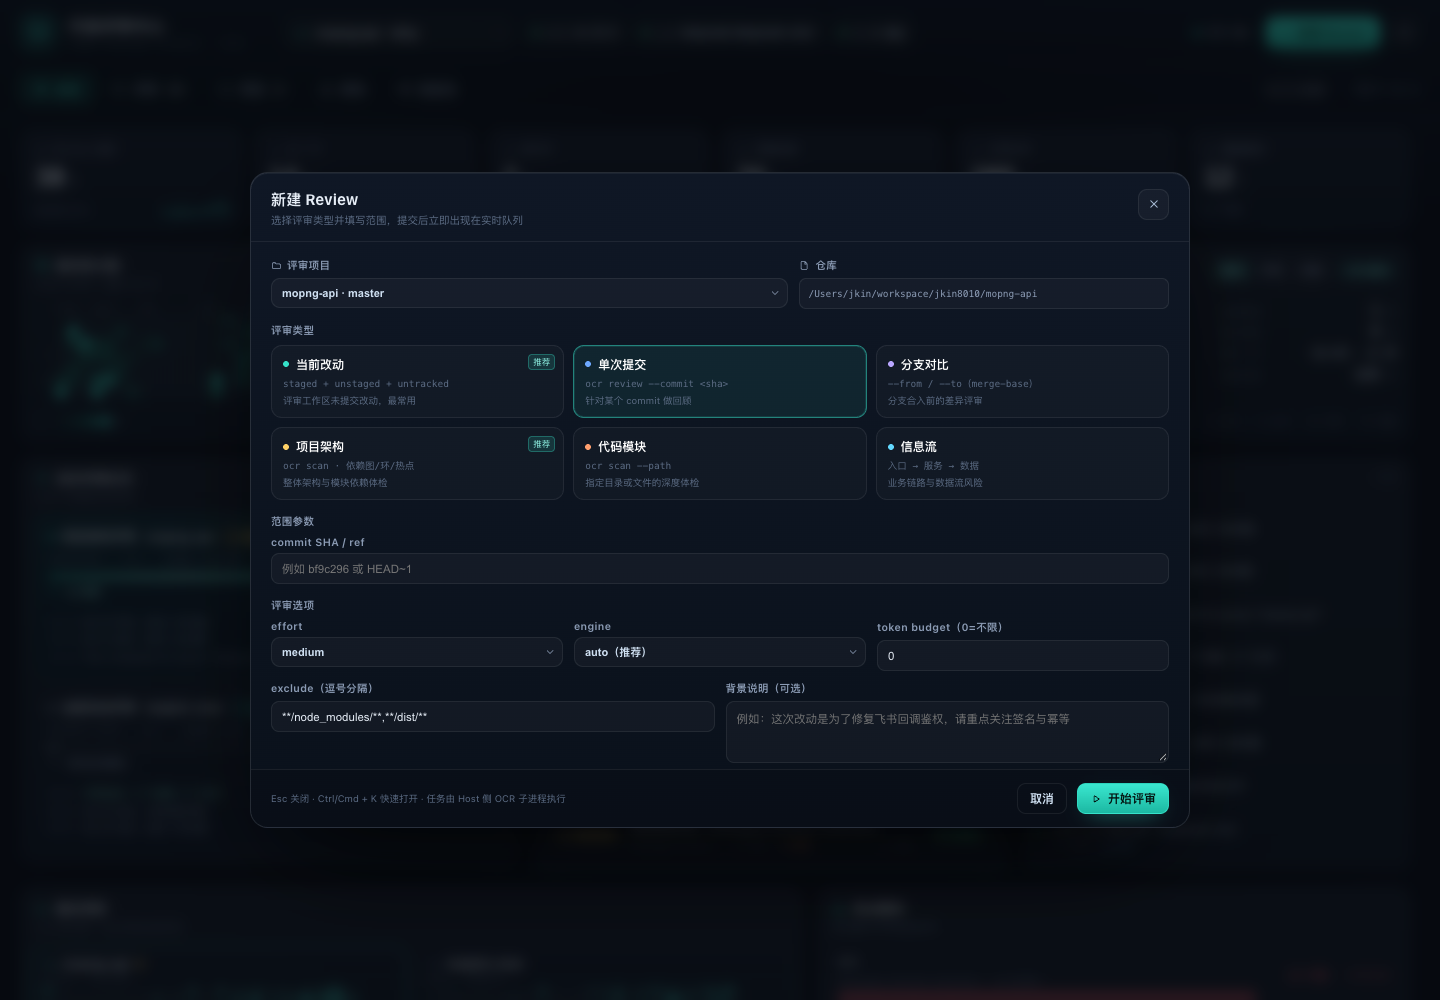
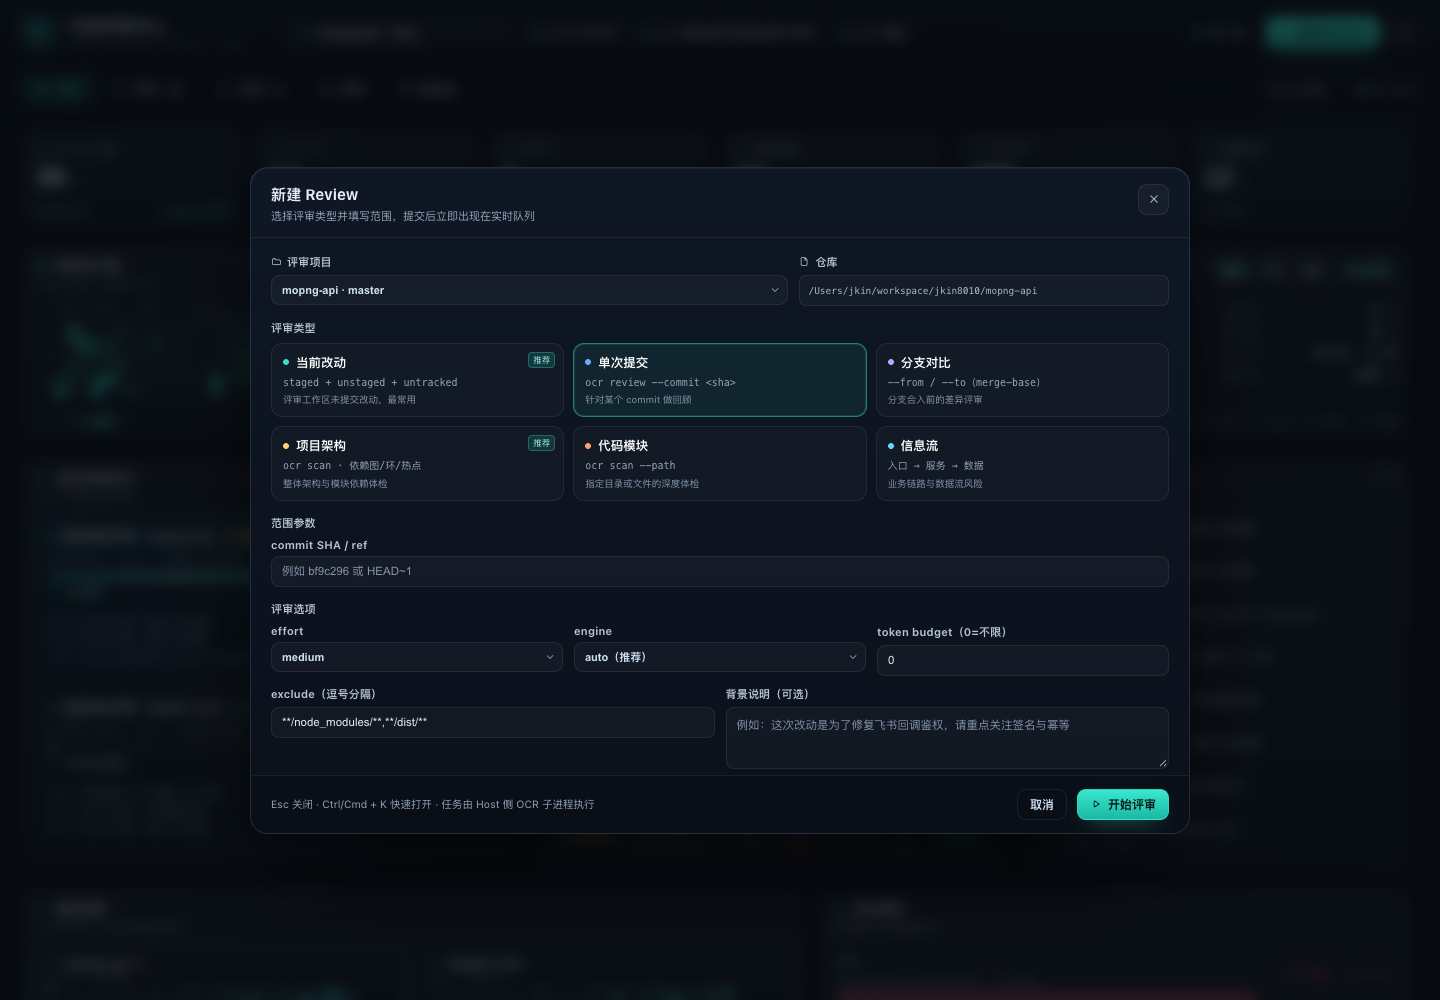
style: 提升次级文字对比度，修复暗色下看不清的问题（v0.2.1）
- --muted #8b9bb4→#a7b5c9、--faint #5b6b83→#8494ac（对 #0d1420 对比度 3.4→6.0+）
- 表单标签 11px/#b7c4d6；hint/modal 副标题/类型卡说明/统计注释/图例统一提亮
- 输入框与搜索框 placeholder 提亮；代码行号、图节点副标题、进度条底色同步
- 重新生成全部界面截图

diff --git a/plugins/dsh-code-review/client.js b/plugins/dsh-code-review/client.js
@@ -609,7 +609,7 @@ window.__ModuleLoader__.load({
 
     const css = `
 .cr-app{--bg:#080c14;--panel:#0d1420;--panel-2:#101a28;--line:rgba(255,255,255,.07);
-  --line-strong:rgba(255,255,255,.12);--text:#e6edf6;--muted:#8b9bb4;--faint:#5b6b83;
+  --line-strong:rgba(255,255,255,.12);--text:#e6edf6;--muted:#a7b5c9;--faint:#8494ac;
   --accent:#35e0c8;--accent-2:#6ea8fe;--mono:ui-monospace,SFMono-Regular,Menlo,Consolas,monospace;
   position:relative;height:100%;width:100%;display:flex;flex-direction:column;overflow:hidden;
   color:var(--text);font-family:system-ui,-apple-system,'Segoe UI','PingFang SC','Microsoft YaHei',sans-serif;
@@ -732,7 +732,7 @@ window.__ModuleLoader__.load({
   font-size:25px;font-weight:660;letter-spacing:-.6px;line-height:1.1}
 .cr-stat-unit{font-family:system-ui,sans-serif;font-size:10.5px;color:var(--faint);font-weight:500;letter-spacing:0}
 .cr-stat-foot{display:flex;align-items:flex-end;justify-content:space-between;gap:8px;margin-top:6px;min-height:19px}
-.cr-stat-note{font-size:10px;color:#6b7c95;line-height:1.35}
+.cr-stat-note{font-size:10px;color:#93a3b8;line-height:1.4}
 .cr-spark{display:block;overflow:visible}
 
 /* ---------- heatmap ---------- */
@@ -879,7 +879,7 @@ window.__ModuleLoader__.load({
 .cr-diff-pane.is-old .cr-diff-label{color:#ff9aa4}
 .cr-code{max-height:216px;overflow:auto;padding:6px 0}
 .cr-code-line{display:flex;gap:8px;padding:0 8px;font-family:var(--mono);font-size:10.5px;line-height:1.72;white-space:pre}
-.cr-code-no{flex:0 0 26px;text-align:right;color:#42536b;user-select:none}
+.cr-code-no{flex:0 0 26px;text-align:right;color:#7f90a6;user-select:none}
 .cr-code-tx{white-space:pre-wrap;word-break:break-word;color:#cfe0f2}
 .cr-diff-pane.is-old .cr-code-line{background:rgba(255,93,108,.05)}
 .cr-diff-pane.is-new .cr-code-line{background:rgba(53,224,200,.05)}
@@ -891,7 +891,7 @@ window.__ModuleLoader__.load({
 .cr-search .cr-icon{position:absolute;left:9px;color:var(--faint);pointer-events:none}
 .cr-search input{width:100%;height:30px;padding:0 10px 0 29px;border-radius:9px;border:1px solid var(--line);
   background:rgba(255,255,255,.03);color:var(--text);font-size:11.5px;outline:none}
-.cr-search input::placeholder{color:#4d5d75}
+.cr-search input::placeholder,.cr-input::placeholder,textarea.cr-input::placeholder{color:#8494ac;opacity:1}
 .cr-search input:focus{border-color:rgba(53,224,200,.42);box-shadow:0 0 0 3px rgba(53,224,200,.1)}
 .cr-select{position:relative;display:inline-flex;align-items:center}
 .cr-select select{appearance:none;-webkit-appearance:none;height:30px;padding:0 26px 0 10px;border-radius:9px;
@@ -900,18 +900,18 @@ window.__ModuleLoader__.load({
 .cr-select select option{background:#0d1420}
 .cr-select .cr-icon{position:absolute;right:7px;color:var(--muted);pointer-events:none}
 .cr-field{display:flex;flex-direction:column;gap:5px;min-width:0}
-.cr-label{font-size:10.5px;color:var(--muted);font-weight:620;letter-spacing:.3px;display:flex;align-items:center;gap:5px}
+.cr-label{font-size:11px;color:#b7c4d6;font-weight:640;letter-spacing:.2px;display:flex;align-items:center;gap:5px}
 .cr-input{height:31px;border-radius:8px;border:1px solid var(--line);background:rgba(255,255,255,.03);
   color:var(--text);font-size:11.5px;padding:0 10px;outline:none;width:100%}
 .cr-input:focus{border-color:rgba(53,224,200,.42);box-shadow:0 0 0 3px rgba(53,224,200,.1)}
 textarea.cr-input{height:auto;min-height:62px;padding:8px 10px;line-height:1.6;resize:vertical;font-family:inherit}
-.cr-hint{font-size:9.5px;color:var(--faint);line-height:1.5}
+.cr-hint{font-size:10.5px;color:#93a3b8;line-height:1.55}
 .cr-kv{display:flex;align-items:center;justify-content:space-between;gap:10px;font-size:10.5px}
 .cr-kv + .cr-kv{margin-top:6px}
-.cr-kv span:first-child{color:var(--faint);flex:0 0 auto}
+.cr-kv span:first-child{color:#9aa9bd;flex:0 0 auto}
 .cr-kv span:last-child{color:#cfe0f2;font-family:var(--mono);font-size:10px;text-align:right;overflow:hidden;text-overflow:ellipsis;white-space:nowrap}
 .cr-side-block{border-top:1px dashed rgba(255,255,255,.08);padding-top:10px;margin-top:10px}
-.cr-side-title{font-size:10px;color:var(--faint);letter-spacing:.6px;font-weight:640;margin-bottom:7px}
+.cr-side-title{font-size:10px;color:#93a3b8;letter-spacing:.6px;font-weight:640;margin-bottom:7px}
 .cr-file-row{display:flex;align-items:center;gap:7px;font-size:10.5px;color:#a9bdd4;padding:3px 0;min-width:0}
 .cr-file-row .cr-mono{font-size:9.5px;color:var(--faint);margin-left:auto}
 .cr-coverage{height:6px;border-radius:99px;background:rgba(255,255,255,.07);overflow:hidden;display:flex}
@@ -925,7 +925,7 @@ textarea.cr-input{height:auto;min-height:62px;padding:8px 10px;line-height:1.6;r
 .cr-graph-svg{width:100%;height:100%;display:block}
 .cr-graph-node{cursor:pointer}
 .cr-graph-node text{font-size:11px;font-weight:600;fill:#cfe0f2;pointer-events:none}
-.cr-graph-node .cr-graph-sub{font-size:8.5px;fill:#6b7c95;font-weight:500;font-family:ui-monospace,Menlo,monospace}
+.cr-graph-node .cr-graph-sub{font-size:9px;fill:#93a3b8;font-weight:500;font-family:ui-monospace,Menlo,monospace}
 .cr-graph-node circle.cr-node-halo{opacity:.16;transition:opacity .16s ease}
 .cr-graph-node:hover circle.cr-node-halo{opacity:.34}
 .cr-graph-node.is-dim{opacity:.32}
@@ -959,7 +959,7 @@ textarea.cr-input{height:auto;min-height:62px;padding:8px 10px;line-height:1.6;r
   box-shadow:0 46px 110px -40px #000,inset 0 1px 0 rgba(255,255,255,.05);overflow:hidden;animation:crPop .18s cubic-bezier(.2,.9,.3,1)}
 .cr-modal-head{display:flex;align-items:flex-start;gap:12px;padding:16px 20px 13px;border-bottom:1px solid var(--line)}
 .cr-modal-title{font-size:15px;font-weight:680;letter-spacing:.2px}
-.cr-modal-sub{font-size:10.5px;color:var(--faint);margin-top:3px}
+.cr-modal-sub{font-size:11px;color:#95a4b9;margin-top:3px}
 .cr-modal-body{padding:16px 20px 6px;overflow:auto;min-height:0}
 .cr-modal-foot{display:flex;align-items:center;gap:10px;padding:13px 20px;border-top:1px solid var(--line);background:rgba(8,12,20,.5)}
 .cr-modal-foot .cr-grow{flex:1 1 auto}
@@ -969,8 +969,8 @@ textarea.cr-input{height:auto;min-height:62px;padding:8px 10px;line-height:1.6;r
 .cr-type-card:hover{border-color:rgba(255,255,255,.18)}
 .cr-type-card.is-active{border-color:rgba(53,224,200,.5);background:rgba(53,224,200,.08);
   box-shadow:inset 0 0 0 1px rgba(53,224,200,.12)}
-.cr-type-card-top{display:flex;align-items:center;gap:7px;font-size:12px;font-weight:650}
-.cr-type-card-hint{font-size:9.5px;color:var(--faint);margin-top:4px;font-family:var(--mono);line-height:1.5}
+.cr-type-card-top{display:flex;align-items:center;gap:7px;font-size:12.5px;font-weight:650}
+.cr-type-card-hint{font-size:10px;color:#93a3b8;margin-top:4px;font-family:var(--mono);line-height:1.55}
 .cr-type-card-badge{position:absolute;right:8px;top:8px;font-size:8.5px;color:#8ff3e4;background:rgba(53,224,200,.14);
   border:1px solid rgba(53,224,200,.3);border-radius:4px;padding:1px 4px}
 .cr-form-grid{display:grid;grid-template-columns:1fr 1fr;gap:11px}
@@ -1650,7 +1650,7 @@ textarea.cr-input{height:auto;min-height:62px;padding:8px 10px;line-height:1.6;r
         h('span', null, '·'),
         h('span', null, running ? `已耗时 ${fmtMs(elapsedOf(job, now))}` : `已等待 ${fmtMs(elapsedOf(job, now))}`)),
       h('div', { style: { marginTop: 8 } },
-        h(ProgressBar, { value: progress, color: running ? undefined : 'linear-gradient(90deg,#3b4b63,#5b6b83)' })),
+        h(ProgressBar, { value: progress, color: running ? undefined : 'linear-gradient(90deg,#6c7f9a,#93a3b8)' })),
       h('div', { className: 'cr-queue-foot' },
         h(Icon, { name: running ? 'play' : 'clock', size: 11, style: { color: running ? '#35e0c8' : 'var(--faint)' } }),
         h('span', { style: { color: running ? '#8ff3e4' : 'var(--muted)', fontWeight: 620 } },

diff --git a/docs/CODE-REVIEW-DELIVERY.md b/docs/CODE-REVIEW-DELIVERY.md
@@ -1,6 +1,6 @@
 # dsh-code-review 交付说明
 
-> 插件包：`plugins/dsh-code-review`（`@jkin8010/dsh-code-review` v0.2.0）
+> 插件包：`plugins/dsh-code-review`（`@jkin8010/dsh-code-review` v0.2.1）
 > 依赖：`ocr`（`@alibaba-group/open-code-review`）v1.13.6、`git`、Node 22+
 > 本机已安装到 desktop profile；**重启 DSH 后生效**（见文末）。
 
